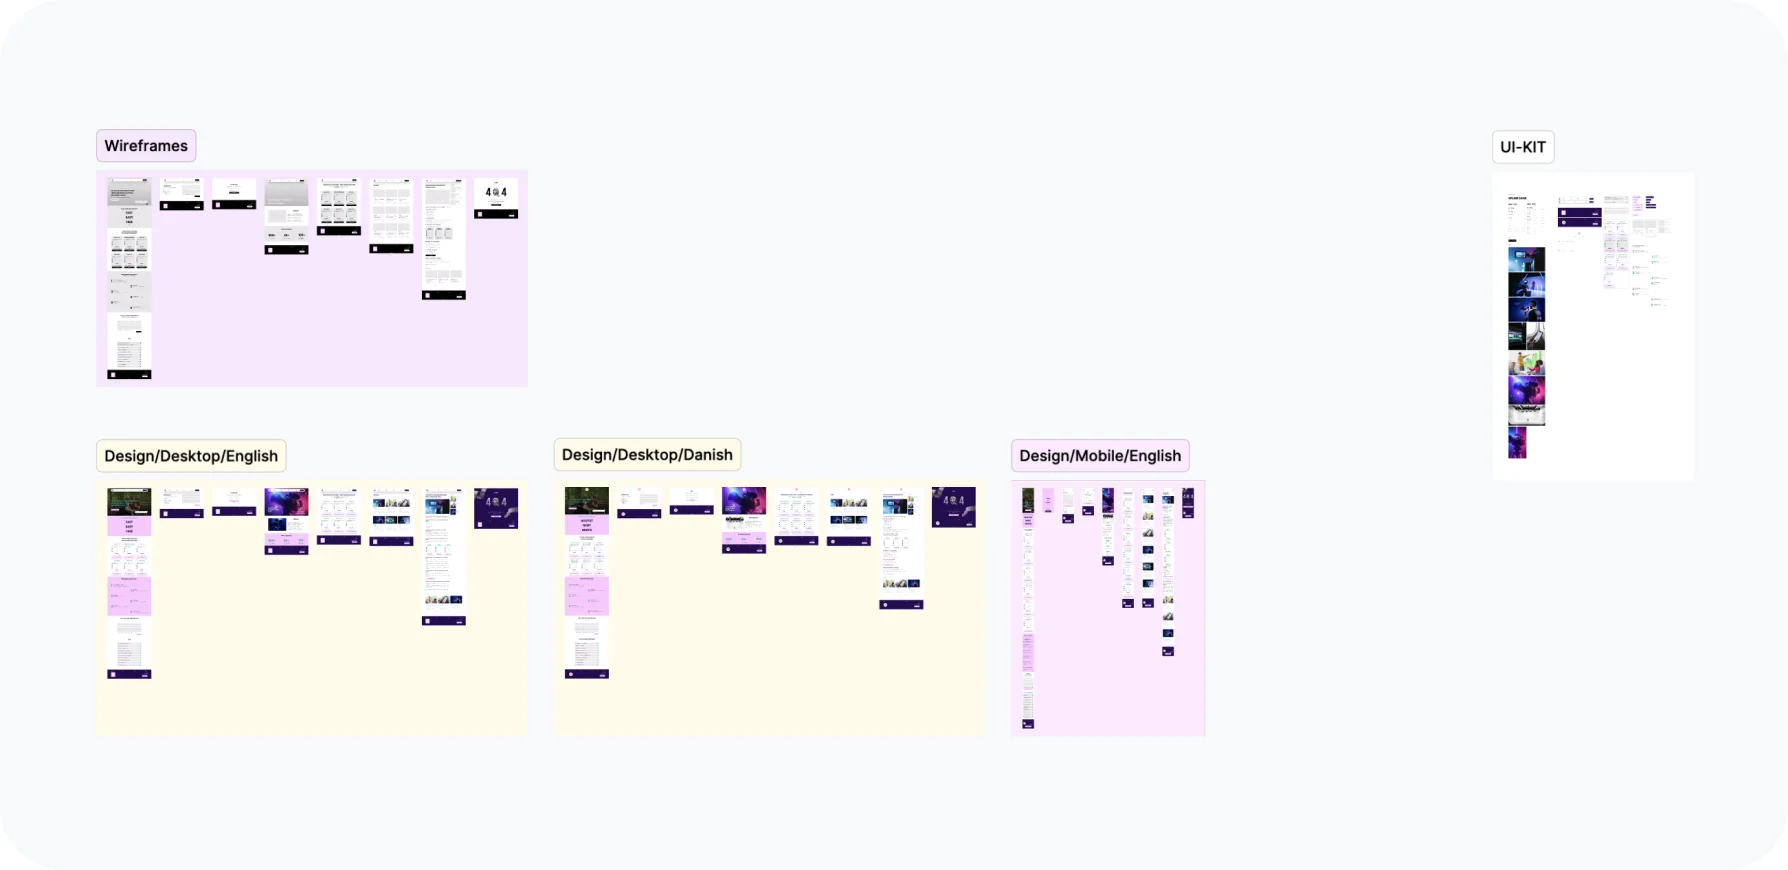
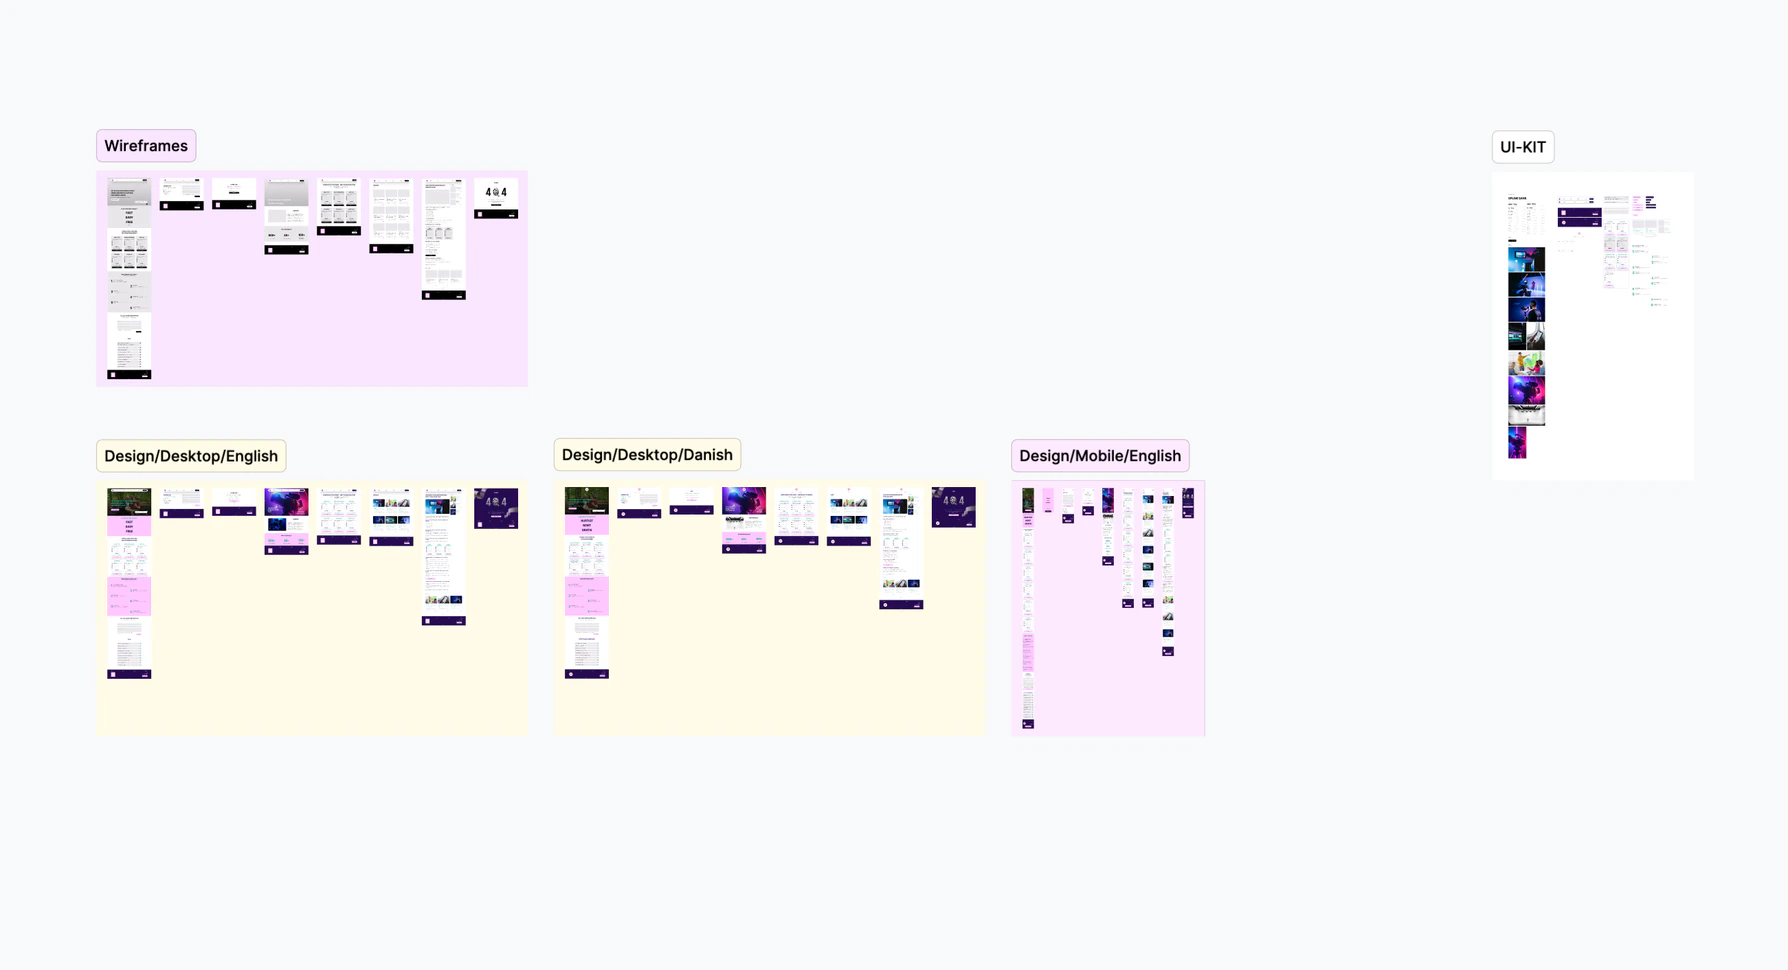
feat: use original high-quality case study photos

diff --git a/src/content/workCases.ts b/src/content/workCases.ts
@@ -1,11 +1,12 @@
 import type { WorkCase, WorkSlug } from './types';
 
+/** Covers exported from Figma at 2× the 894 × 435 frame. */
 const DETAIL = { width: 1788, height: 870 } as const;
 
 /**
  * Case studies, keyed by work. A work opens its overlay only when it is
  * published (`works.ts`) and has an entry here. Copy lives in messages
- * (`WorkCases.*`); images are exported from Figma at 2×.
+ * (`WorkCases.*`). Images are WebP at about 2× their displayed width.
  */
 export const workCases = {
   /** Desktop 448:532, mobile patterns 520:879. */
@@ -34,7 +35,7 @@ export const workCases = {
           {
             kind: 'photo',
             copy: 'ces.wireframes',
-            image: { src: '/media/works/ces/crm-wireframes.webp', ...DETAIL },
+            image: { src: '/media/works/ces/crm-wireframes.webp', width: 1788, height: 888 },
           },
         ],
       },
@@ -81,7 +82,11 @@ export const workCases = {
           {
             kind: 'photo',
             copy: 'filmBudget.research',
-            image: { src: '/media/works/film-budget/research-analysis.webp', ...DETAIL },
+            image: {
+              src: '/media/works/film-budget/research-analysis.webp',
+              width: 1788,
+              height: 975,
+            },
           },
         ],
       },
@@ -108,7 +113,11 @@ export const workCases = {
           {
             kind: 'photo',
             copy: 'filmBudget.designFile',
-            image: { src: '/media/works/film-budget/design-file-overview.webp', ...DETAIL },
+            image: {
+              src: '/media/works/film-budget/design-file-overview.webp',
+              width: 1788,
+              height: 970,
+            },
           },
         ],
       },

diff --git a/src/components/overlay/WorkMedia/WorkMedia.tsx b/src/components/overlay/WorkMedia/WorkMedia.tsx
@@ -2,6 +2,9 @@ import Image from 'next/image';
 import type { ImageAsset } from '@/content/types';
 import styles from './WorkMedia.module.css';
 
+/** Detailed screenshots (wireframes, boards): above the default 75, allowed in next.config.ts. */
+const WORK_MEDIA_QUALITY = 90;
+
 type WorkMediaProps = {
   image: ImageAsset;
   alt: string;
@@ -19,6 +22,7 @@ export function WorkMedia({ image, alt, eager = false }: WorkMediaProps) {
         alt={alt}
         fill
         loading={eager ? 'eager' : 'lazy'}
+        quality={WORK_MEDIA_QUALITY}
         sizes="(min-width: 1200px) 894px, (min-width: 768px) 75vw, calc(100vw - 32px)"
       />
     </div>

diff --git a/next.config.ts b/next.config.ts
@@ -6,6 +6,10 @@ const withNextIntl = createNextIntlPlugin('./src/features/i18n/request.ts');
 const nextConfig: NextConfig = {
   reactStrictMode: true,
   poweredByHeader: false,
+  images: {
+    // 75 is the default; 90 keeps text legible in case study screenshots (WorkMedia).
+    qualities: [75, 90],
+  },
 };
 
 export default withNextIntl(nextConfig);
